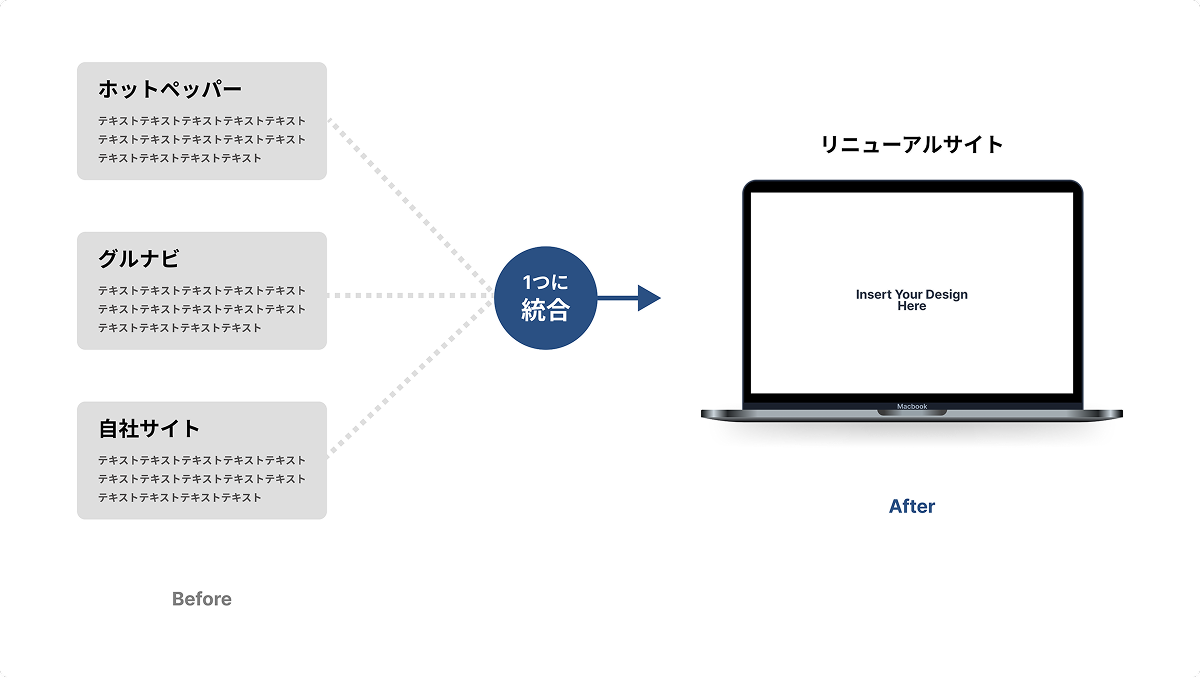
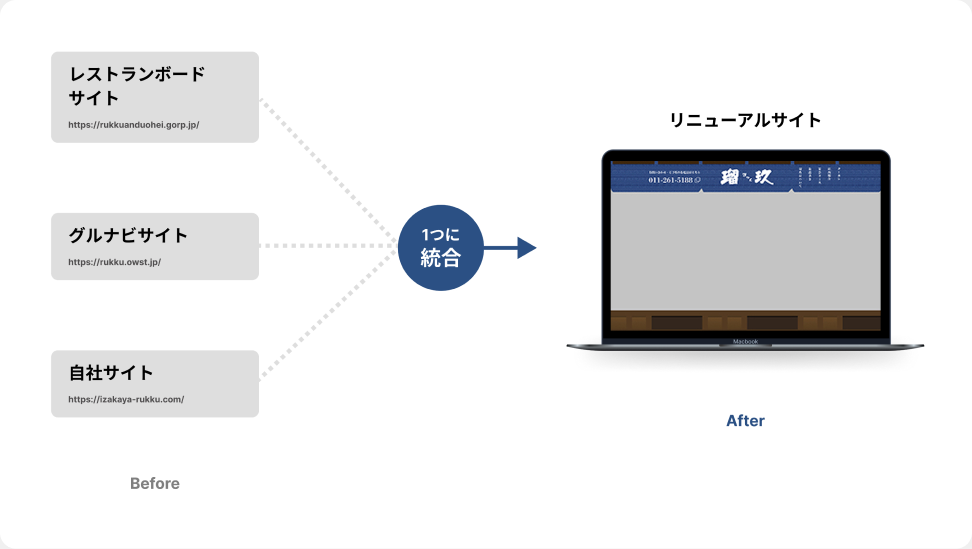
瑠玖の予約サイト統合図を Figma の最新版に差し替え
Claude-Session: https://claude.ai/code/session_015LFPPDA7cRzc4mn19KzcAD

diff --git a/src/works/ryuku.html b/src/works/ryuku.html
@@ -141,7 +141,7 @@
               <h3 class="c-item-heading"><span class="c-item-heading__sub">3つの</span>予約サイトの統合</h3>
               <p class="p-work-text">複数のサイトを一つに統合することで、検索順位が上がりやすくなると同時に、サイトごとに更新する作業の手間を省くことができ、運用の効率化を図ることができると考えました。</p>
             </div>
-            <img class="p-work-image p-work-image--rounded" src="../assets/img/ryuku/integration.png" alt="ホットペッパー・ぐるなび・自社サイトの3つをリニューアルサイトに統合する図" width="1200" height="678" loading="lazy" style="--ar: 4096 / 2312">
+            <img class="p-work-image p-work-image--rounded" src="../assets/img/ryuku/integration.png" alt="レストランボードサイト・グルナビサイト・自社サイトの3つをリニューアルサイトに統合する図" width="972" height="549" loading="lazy" style="--ar: 4096 / 2312">
           </div>
         </div>
       </section>
